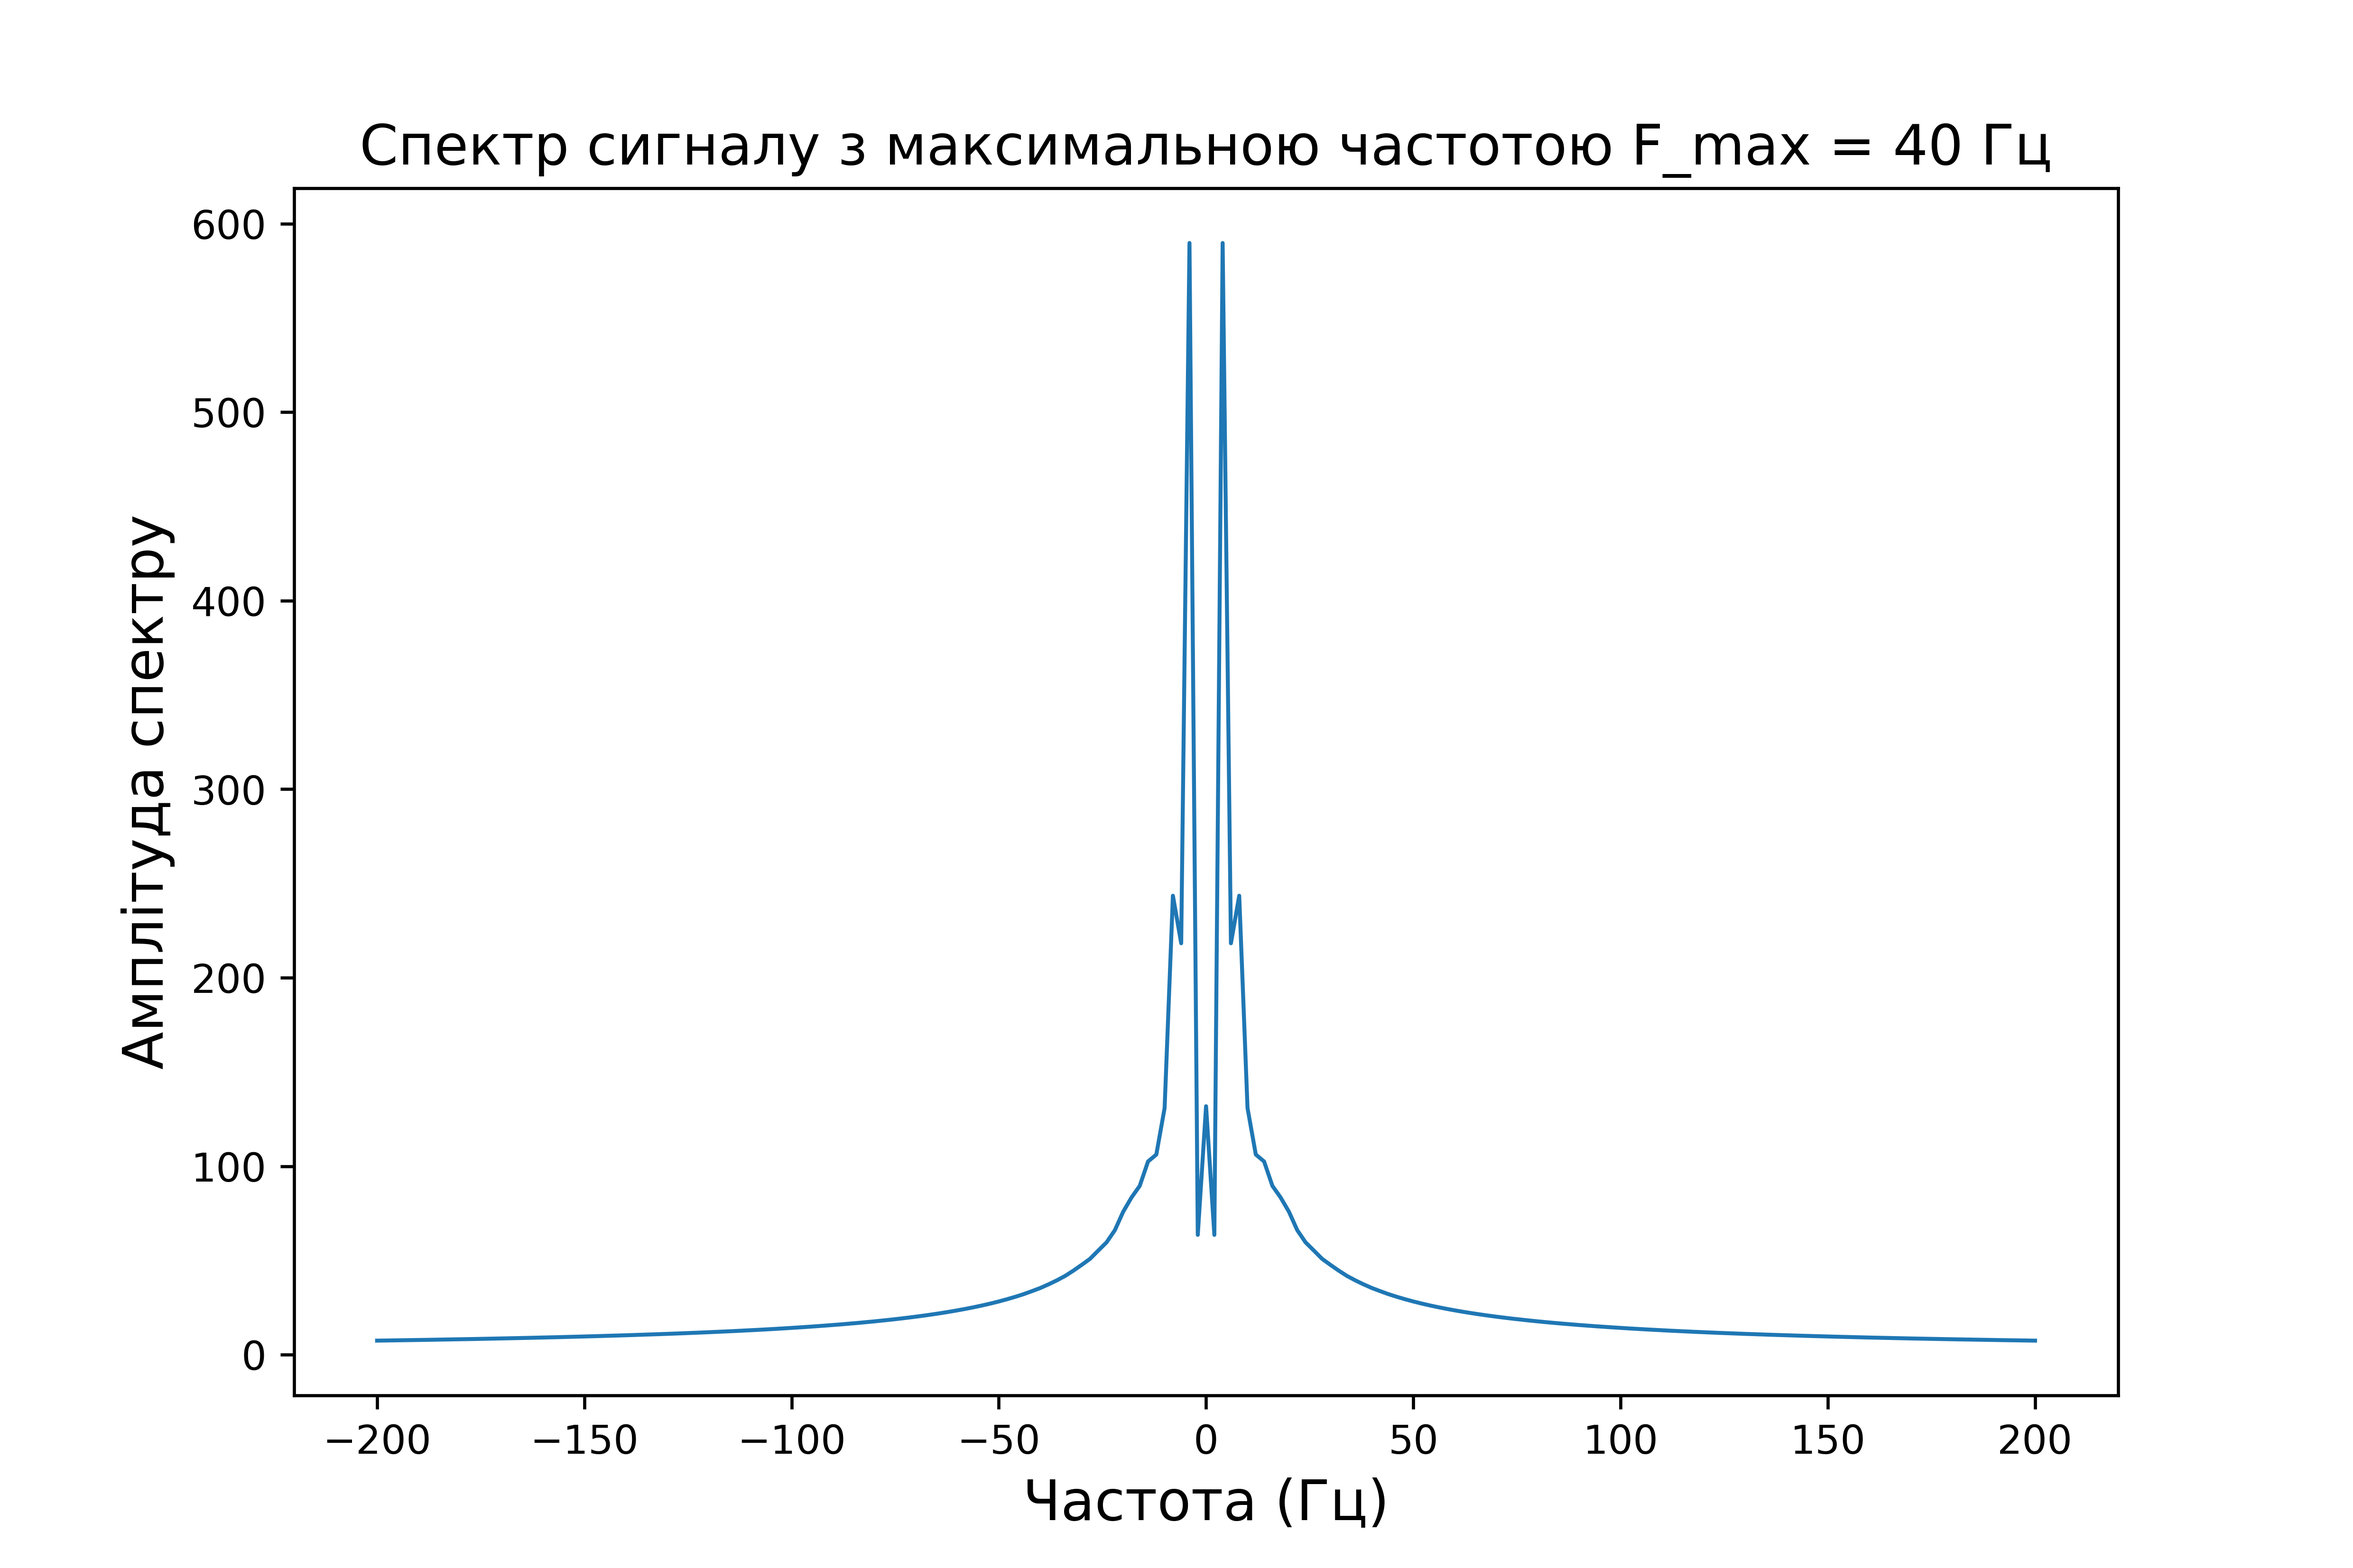
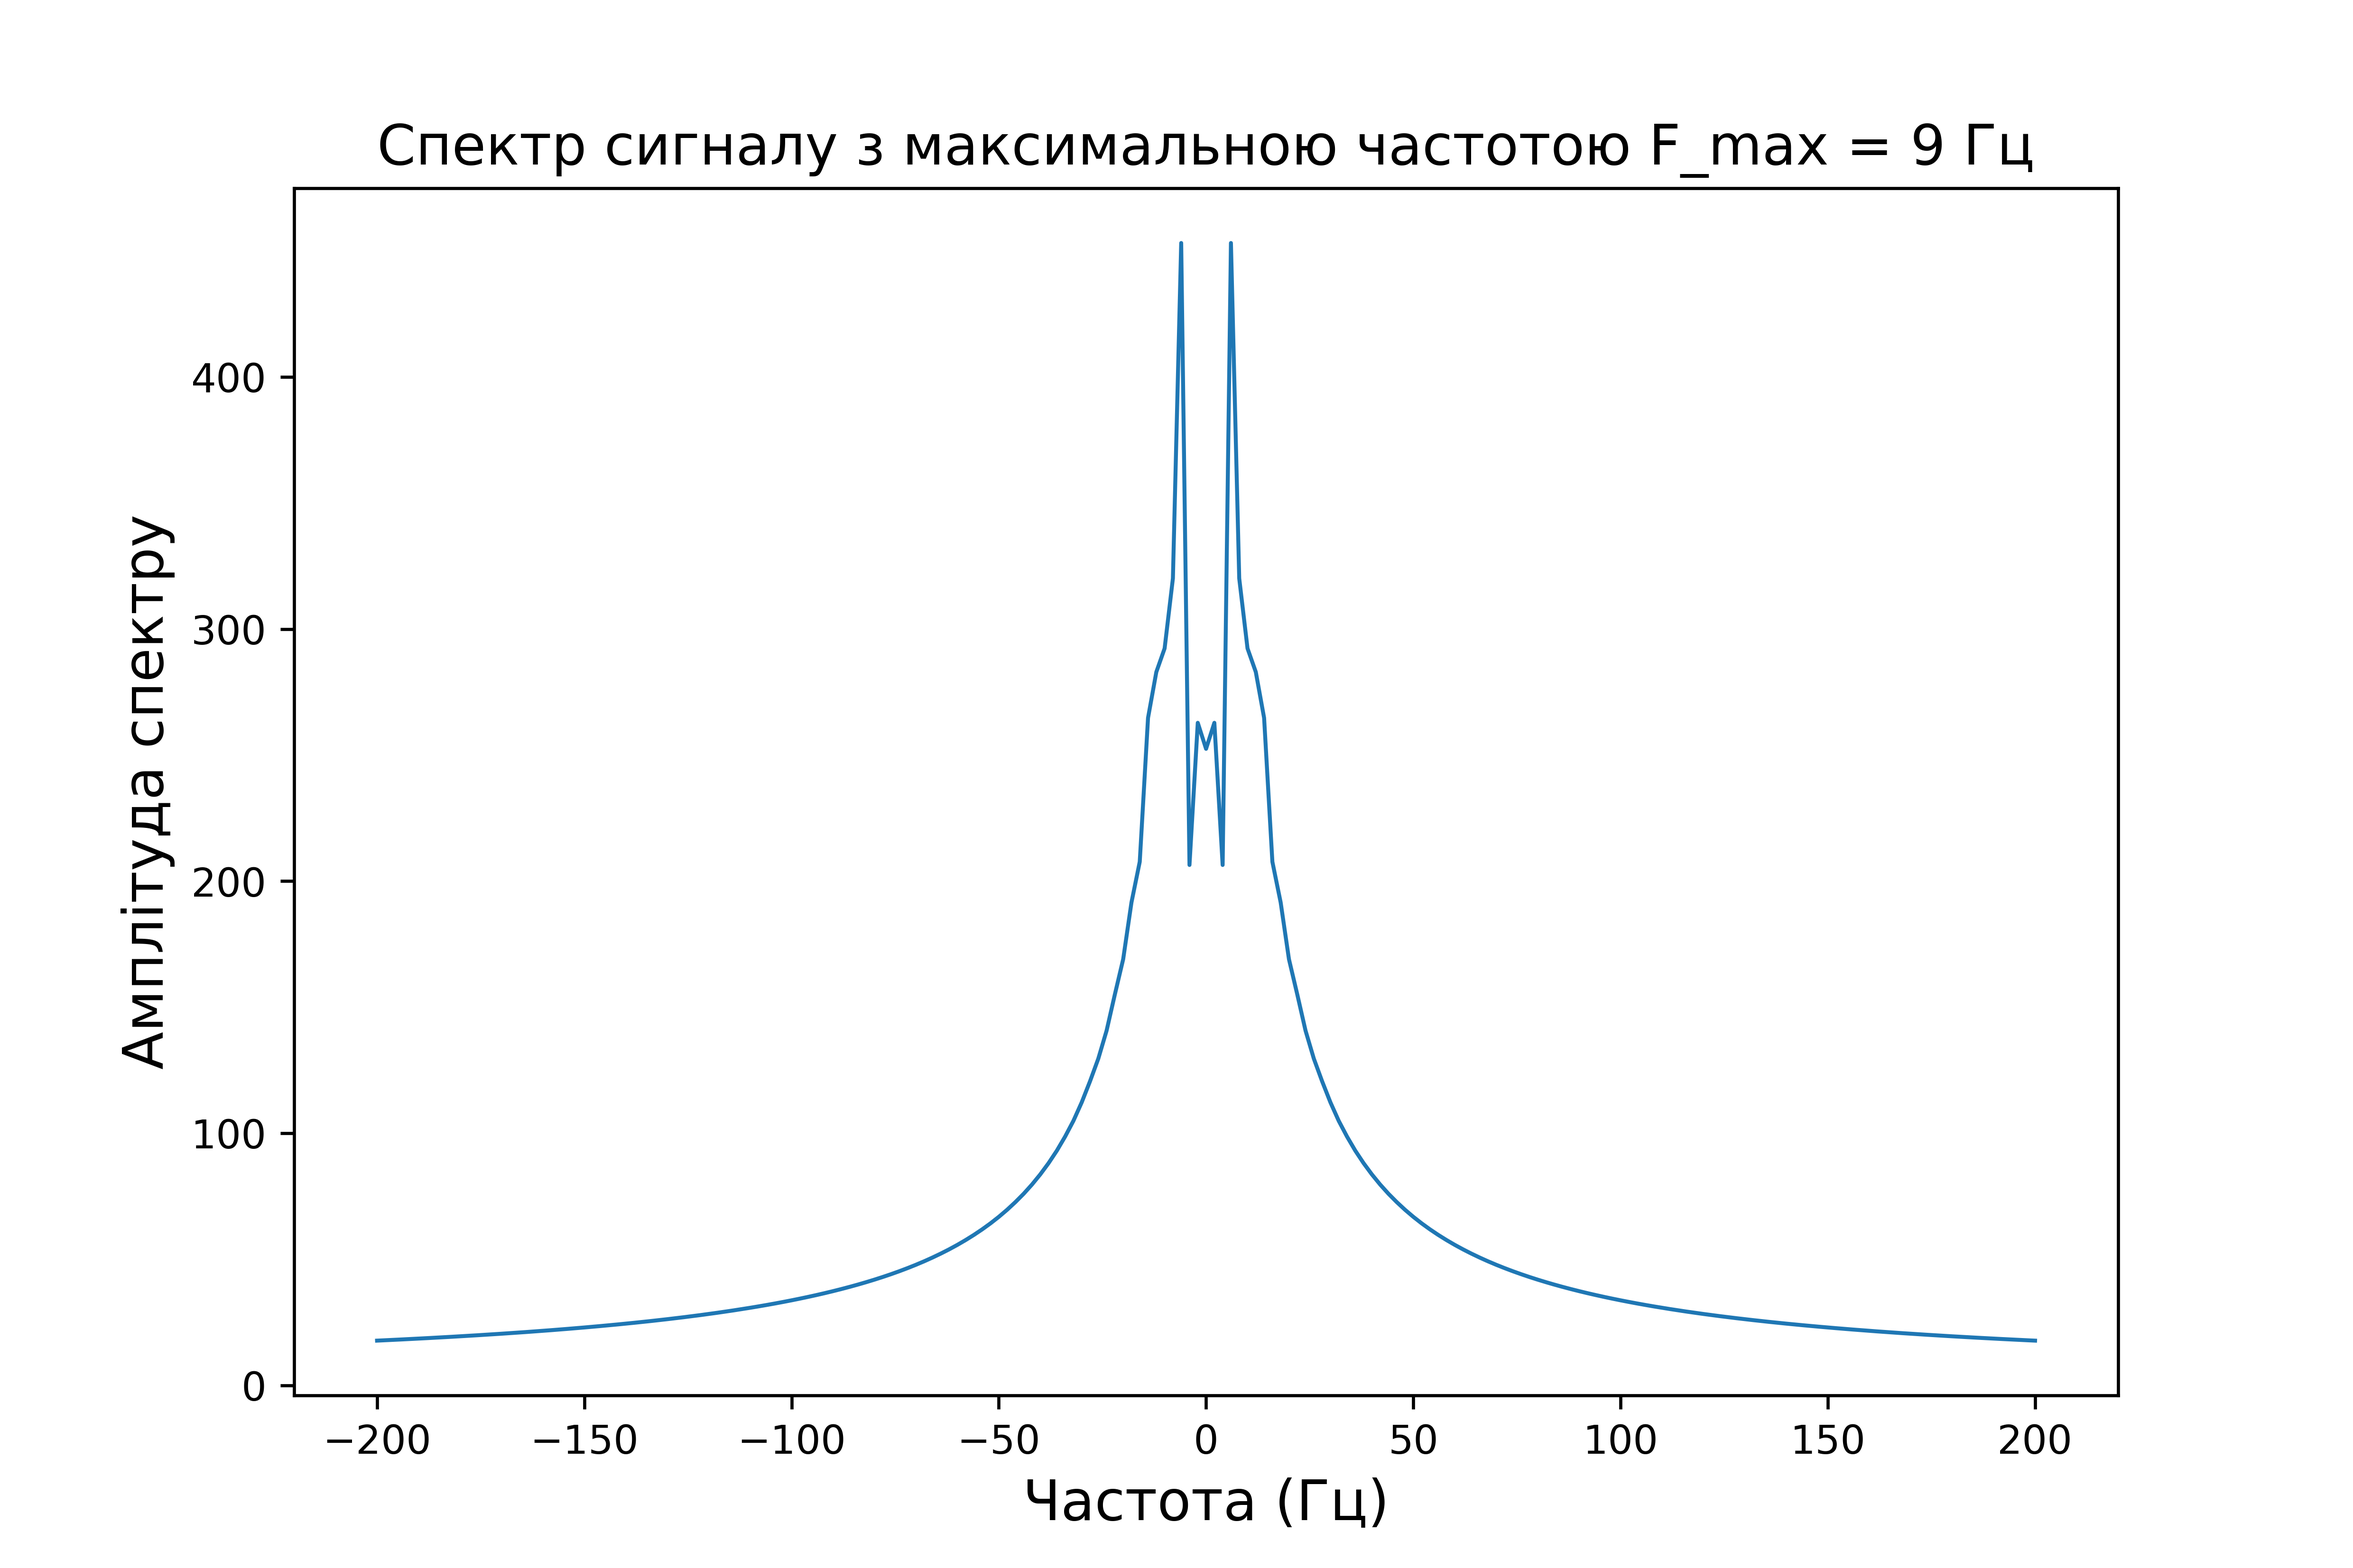
Signal processing, 2

diff --git a/SignalProcessing/SignalProcessing.py b/SignalProcessing/SignalProcessing.py
@@ -62,3 +62,97 @@ plot_signal(
     ylabel="Амплітуда спектру",
     filename="signal_spectrum"
 )
+
+discrete_signals = []
+
+for Dt in [2, 4, 8, 16]:
+    discrete_signal = np.zeros(n)
+    for i in range(0, round(n / Dt)):
+        if i * Dt < n:
+            discrete_signal[i * Dt] = filtered_signal[i * Dt]
+    discrete_signals.append(list(discrete_signal))
+
+fig, ax = plt.subplots(2, 2, figsize=(21/2.54, 14/2.54))
+s = 0
+for i in range(2):
+    for j in range(2):
+        ax[i][j].plot(time, discrete_signals[s], linewidth=1)
+        s += 1
+
+fig.supxlabel("Час (секунди)", fontsize=14)
+fig.supylabel("Амплітуда сигналу", fontsize=14)
+fig.suptitle("Сигнали з кроком дискретизації Dt = (2, 4, 8, 16)", fontsize=14)
+fig.savefig("../SignalProcessing/figures/discrete_signals.png", dpi=600)
+plt.close(fig)
+
+discrete_spectrums = []
+for sig in discrete_signals:
+    spectrum = fft.fft(sig)
+    spectrum_magnitude = np.abs(fft.fftshift(spectrum))
+    discrete_spectrums.append(list(spectrum_magnitude))
+
+fig, ax = plt.subplots(2, 2, figsize=(21/2.54, 14/2.54))
+s = 0
+for i in range(2):
+    for j in range(2):
+        ax[i][j].plot(freqs_shifted, discrete_spectrums[s], linewidth=1)
+        s += 1
+
+fig.supxlabel("Частота (Гц)", fontsize=14)
+fig.supylabel("Амплітуда спектру", fontsize=14)
+fig.suptitle("Спектри сигналів з кроком дискретизації Dt = (2, 4, 8, 16)", fontsize=14)
+fig.savefig("../SignalProcessing/figures/discrete_spectrums.png", dpi=600)
+plt.close(fig)
+
+discrete_restored_signals = []
+w_filter = 16 / (Fs / 2)
+sos_filter = signal.butter(3, w_filter, 'low', output='sos')
+
+for sig in discrete_signals:
+    restored_signal = signal.sosfiltfilt(sos_filter, sig)
+    discrete_restored_signals.append(list(restored_signal))
+
+fig, ax = plt.subplots(2, 2, figsize=(21/2.54, 14/2.54))
+s = 0
+for i in range(2):
+    for j in range(2):
+        ax[i][j].plot(time, discrete_restored_signals[s], linewidth=1)
+        s += 1
+
+fig.supxlabel("Час (секунди)", fontsize=14)
+fig.supylabel("Амплітуда сигналу", fontsize=14)
+fig.suptitle("Відновлені аналогові сигнали з кроком дискретизації Dt = (2, 4, 8, 16)", fontsize=14)
+fig.savefig("../SignalProcessing/figures/restored_signals.png", dpi=600)
+plt.close(fig)
+
+dispersions = []
+snrs = []
+
+for restored in discrete_restored_signals:
+    diff = np.array(restored) - filtered_signal
+    signal_var = np.var(filtered_signal)
+    diff_var = np.var(diff)
+    dispersions.append(diff_var)
+    snrs.append(signal_var / diff_var)
+
+Dts = [2, 4, 8, 16]
+
+# дисперсія
+plt.figure(figsize=(21/2.54, 14/2.54))
+plt.grid(True)
+plt.plot(Dts, dispersions, marker='o', linewidth=1)
+plt.xlabel("Крок дискретизації", fontsize=14)
+plt.ylabel("Дисперсія", fontsize=14)
+plt.title("Залежність дисперсії від кроку дискретизації", fontsize=14)
+plt.savefig("../SignalProcessing/figures/dispersion_vs_dt.png", dpi=600)
+plt.close()
+
+# ССШ
+plt.figure(figsize=(21/2.54, 14/2.54))
+plt.grid(True)
+plt.plot(Dts, snrs, marker='o', linewidth=1)
+plt.xlabel("Крок дискретизації Dt", fontsize=14)
+plt.ylabel("ССШ", fontsize=14)
+plt.title("Залежність співвідношення сигнал-шум від кроку дискретизації", fontsize=14)
+plt.savefig("../SignalProcessing/figures/snr_vs_dt.png", dpi=600)
+plt.close()
